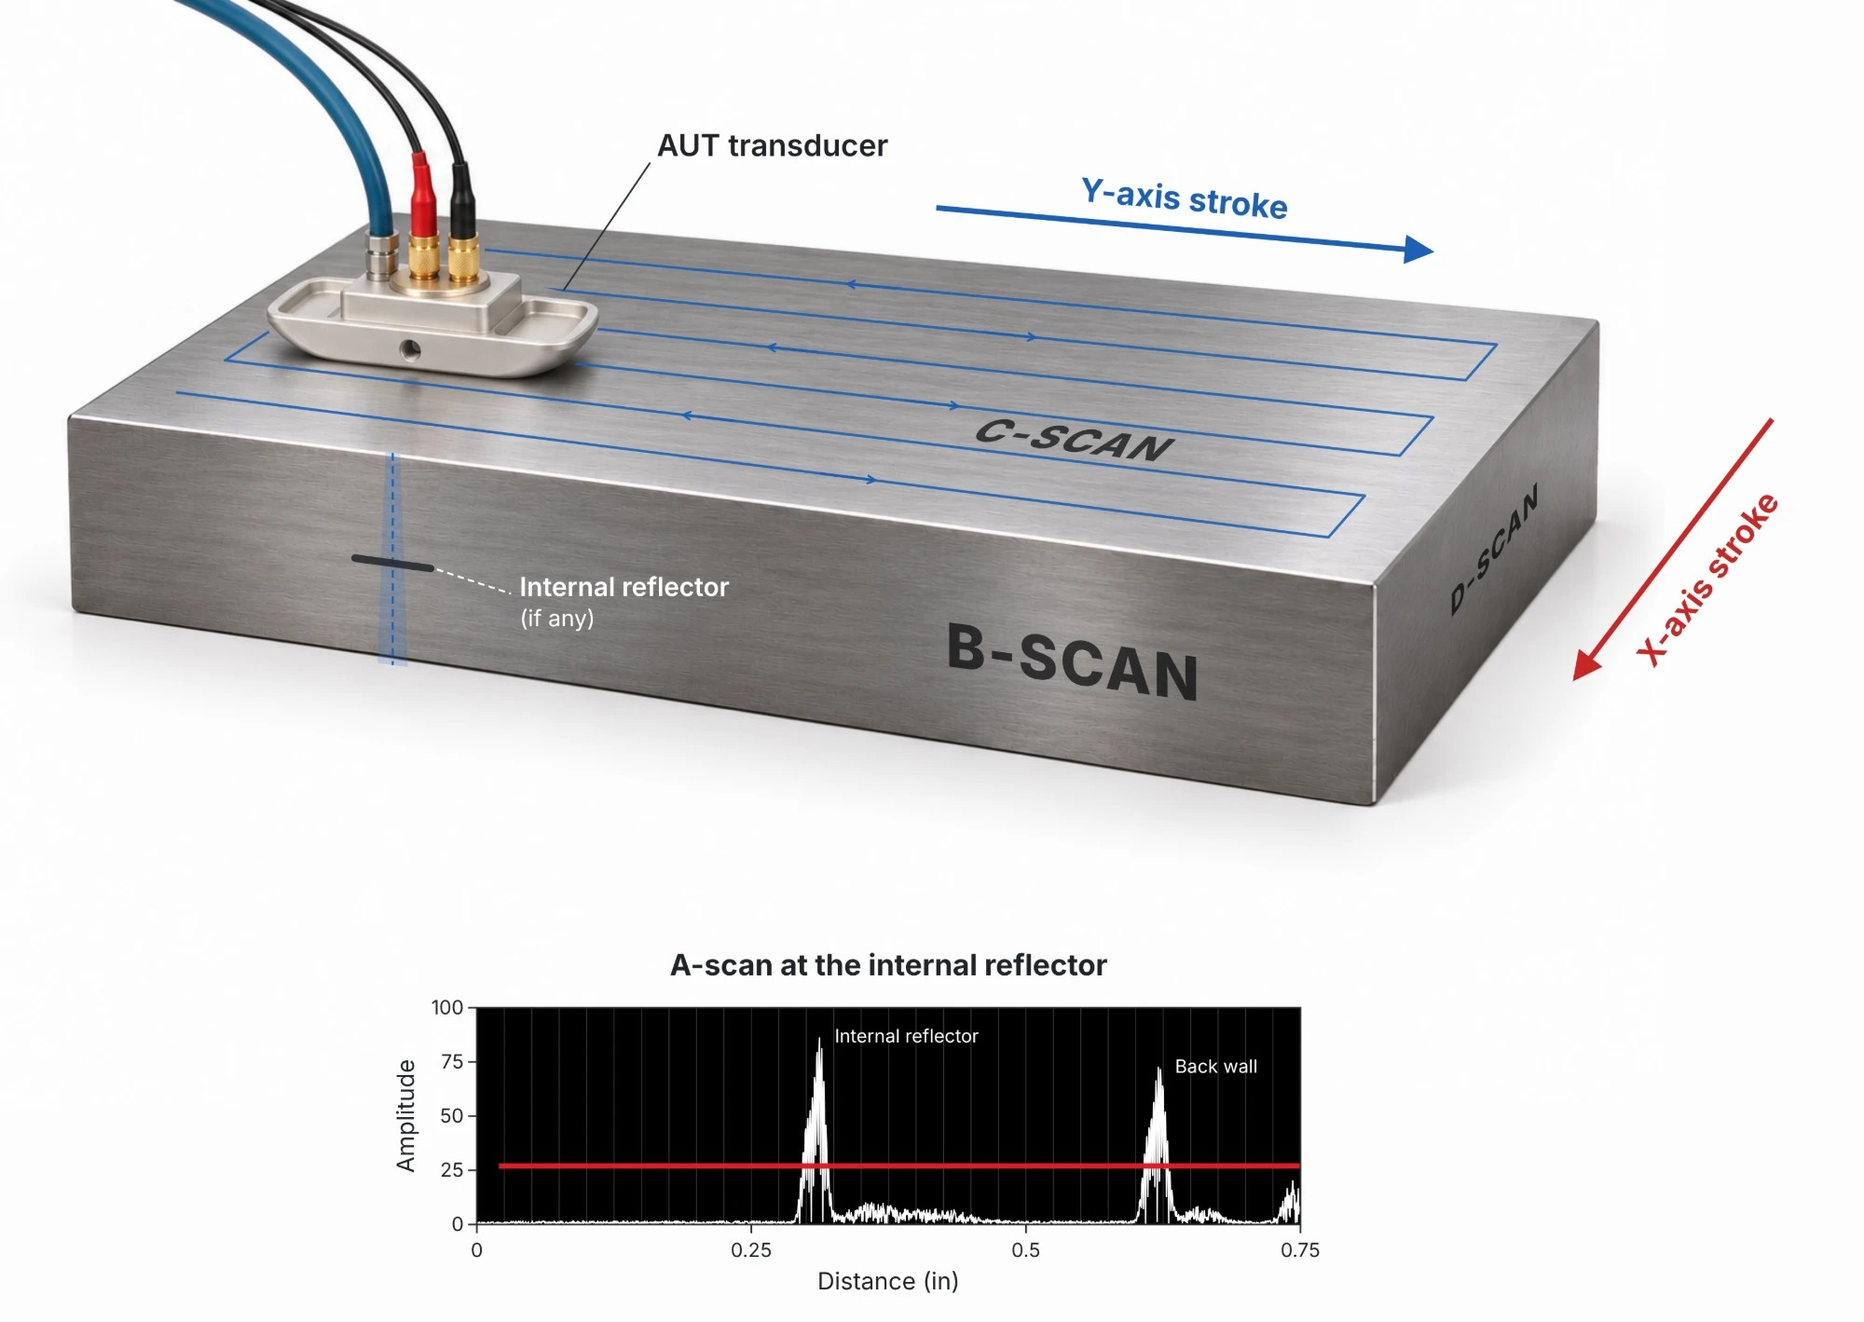
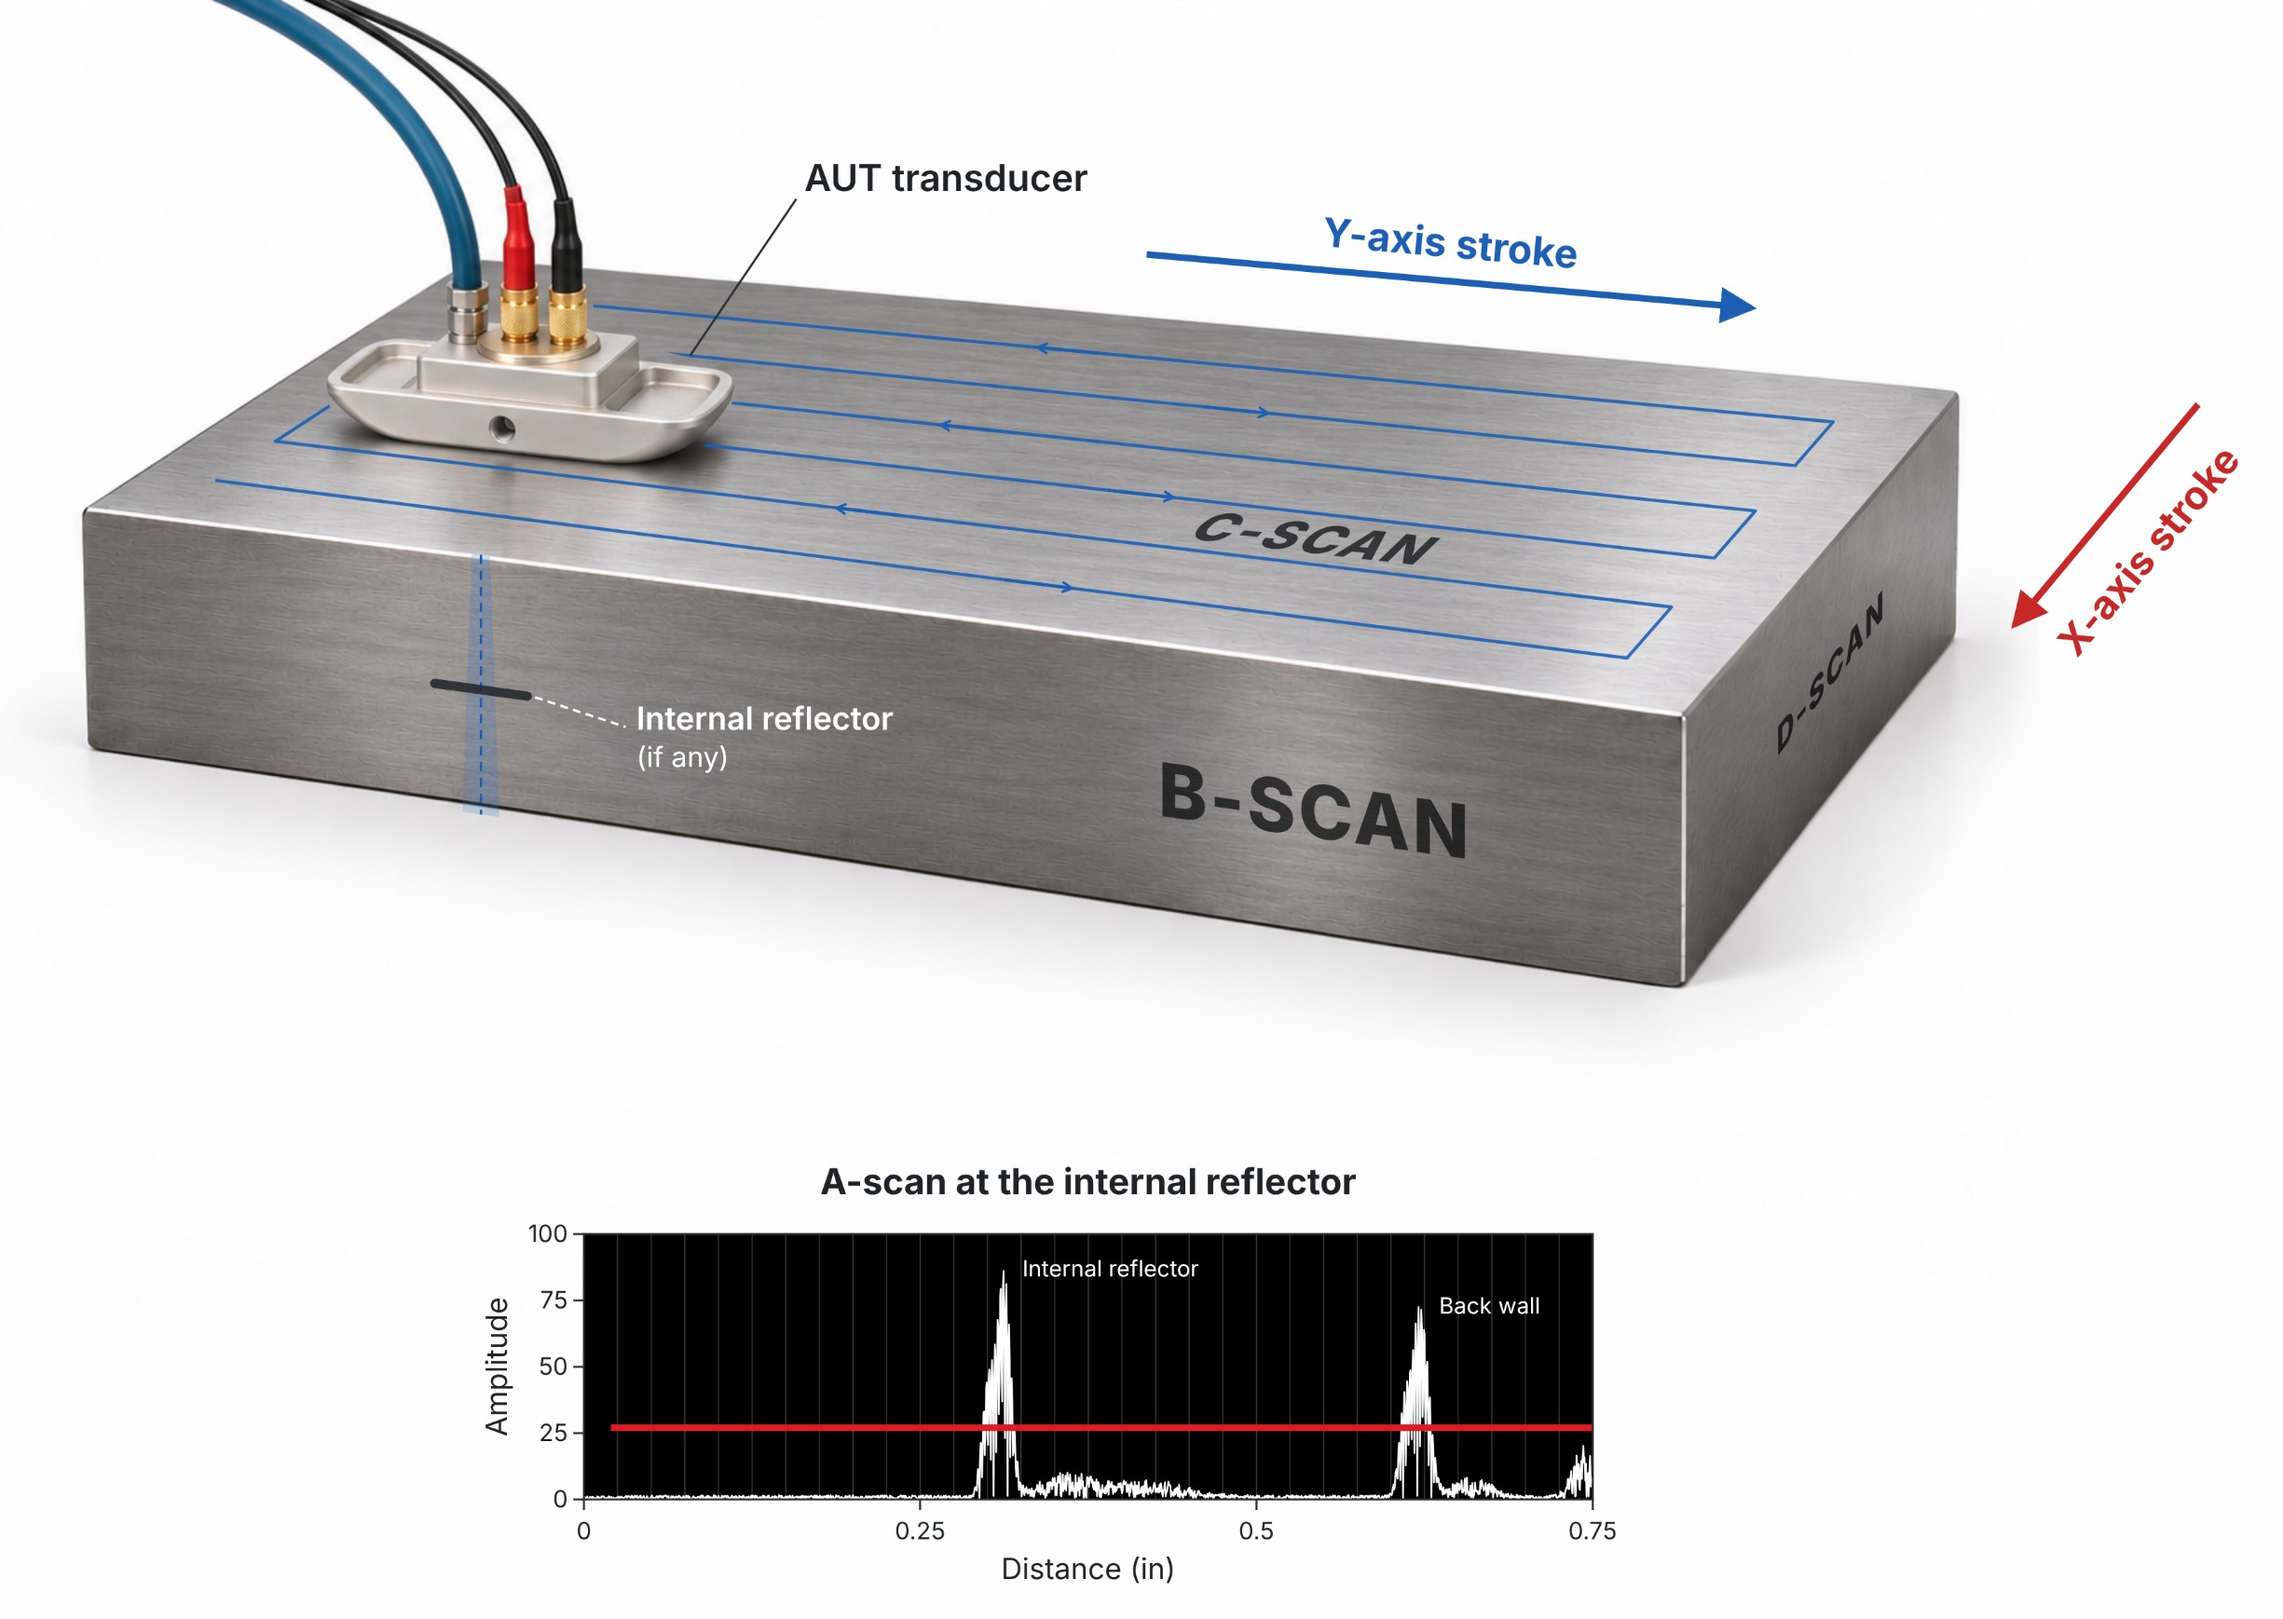
Report fixed pages: full-size scan views picture at 300 dpi, D-scan and Guide wording (user)

Changed region(s): [[0.837, 0.2481, 0.992, 0.5271], [0.434, 0.8992, 0.465, 0.9302]]

diff --git a/app/src/report/templates/generic.ts b/app/src/report/templates/generic.ts
@@ -190,10 +190,10 @@ export const GENERIC_AUT: ReportTemplate = {
       }, {
         layout: 'below',
         paragraphs: [
-          { heading: 'Displays', text: "C-scan display represents a top or plan view of the object. 0° mapping data is usually presented in 'Depth' and shearwave in 'Amplitude'. B-scan display represents a side view along the stroke of the object (Y-axis); the colors in this view represent the amplitude of the signals. B-scan (B-prime) display represents an end view along the X-axis index." },
+          { heading: 'Displays', text: "C-scan display represents a top or plan view of the object. 0° mapping data is usually presented in 'Depth' and shearwave in 'Amplitude'. B-scan display represents a side view along the stroke of the object (Y-axis); the colors in this view represent the amplitude of the signals. D-scan display represents an end view along the X-axis index." },
         ],
         pictures: [
-          { slot: 'equipment-bscan', file: 'scan-views.jpg', px: { w: 2000, h: 1419 } },
+          { slot: 'equipment-bscan', file: 'scan-views.jpg', px: { w: 2450, h: 1738 } },
         ],
       }],
     },
@@ -202,7 +202,7 @@ export const GENERIC_AUT: ReportTemplate = {
       parts: [{
         layout: 'below',
         paragraphs: [
-          { heading: 'Example: AUT scan with corrosion present', text: 'C-scan (plan view), B-scan (Y-axis cross sectional view) and A-scan (waveform), with the O.D. and I.D. surfaces marked.' },
+          { heading: 'Example: AUT scan with corrosion present', text: 'C-scan (plan view), B-scan (Y-axis cross-sectional view) and A-scan (waveform), labelled on the example.' },
           { text: 'Referring to the UT depth color palette, the blue areas in the C-scan image represent the nominal thickness and the green, yellow and red areas represent I.D. wall loss.' },
         ],
         pictures: [

diff --git a/CLAUDE.md b/CLAUDE.md
@@ -1158,3 +1158,9 @@ DEFERRED by the user (2026-10-19): not needed yet; don't propose it unprompted.
   rendering (block with transducer, C / B / D-scan faces, Y / X-axis strokes and a white A-scan on black), saved as
   `src/assets/report/scan-views.jpg` (2000 x 1419, quality-90 JPEG, 266 KB). The app-drawn diagram (`report/pages/diagrams.ts`,
   slot kind `drawn`) is removed; every slot is a bundled picture (`FixedPicture` has no `kind`). Outputs of the drawing unchanged.
+- 2026-11-01 – Report fixed pages (feature/report-fixed-pages, user): `scan-views.jpg` is now the full-size final picture (3440 x 2440
+  PNG from the user) saved at about 300 dpi of its printed width: 2450 x 1738, quality-90 JPEG, 389 KB. Wording: the Displays paragraph
+  ends "D-scan display represents an end view along the X-axis index." (the picture labels that face D-SCAN; was "B-scan (B-prime)");
+  the Guide's first paragraph reads "C-scan (plan view), B-scan (Y-axis cross-sectional view) and A-scan (waveform), labelled on the
+  example." (the example has no O.D. / I.D. marks). Template version stays 1 (no job has printed with it yet). Outputs of the drawing
+  unchanged.

diff --git a/app/docs/report-design.md b/app/docs/report-design.md
@@ -441,7 +441,7 @@ left). Text that does not fit flows onto another page. As built (branch feature/
   "AUT scanner") and the ProScan XT (2.00 x 1.46 in, never wider than 2 in; caption "ProScan XT") in the right column;
   page 2 Displays with the scan views picture under it. No example C-scan on this page (the `equipment-cscan` slot was
   removed, user 2026-11-01).
-- **Scan views picture** (`scan-views.jpg`, 2000 x 1419, supplied by the user 2026-11-01): a rendered block with the AUT
+- **Scan views picture** (`scan-views.jpg`, the user's final picture of 3440 x 2440 saved at 2450 x 1738, about 300 dpi at 8.1 in, quality-90 JPEG; 2026-11-01): a rendered block with the AUT
   transducer and its raster path (C-SCAN on the top face, B-SCAN on the front face, D-SCAN on the end face), the Y-axis
   and X-axis stroke arrows, an internal reflector, and the A-scan at it (white trace on black, gate, internal reflector
   and back wall echoes). It replaced first the old workbook's picture (image35, which said "stoke" for "stroke") and then a
